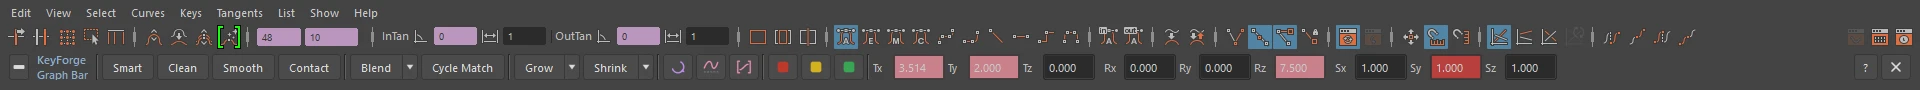
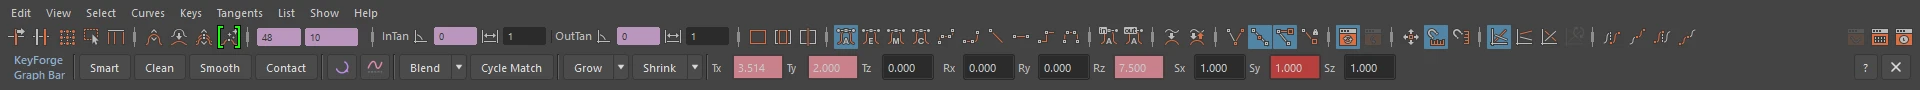
KeyForge 0.8.1: Graph Bar text and images for the automatic one or two row layout

Changed region(s): [[0.0, 0.6, 0.8125, 0.8889]]

diff --git a/_docs/keyforge.md b/_docs/keyforge.md
@@ -61,9 +61,9 @@ Open **KeyForge Tools** (gear menu, or right-click the bar), pick a tool in the 
 
 {% include figure.html slug="keyforge" name="graphbar-1row" alt="The KeyForge Graph Bar in one row inside Maya's Graph Editor, with the channel fields beside the tools" caption="The KeyForge Graph Bar in one row: the tools, then the channel fields, right under the Graph Editor's own buttons." %}
 
-The Graph Bar puts the same tools inside the Graph Editor, so you can use them while you look at curves. It starts in one row, with the tools and the channel fields side by side. The button at the far left switches between one row and two. Click the **?** at the right end for a short guide. What doesn't fit at a narrower width waits in the » menu.
+The Graph Bar puts the same tools inside the Graph Editor, so you can use them while you look at curves. In a wide editor it is one row, with the tools and the channel fields side by side. When the editor is narrower, it switches to two rows by itself, with the channel fields below the tools, so nothing gets hidden. Only a very narrow editor folds the last tools into a » menu. Click the **?** at the right end for a short guide.
 
-{% include figure.html slug="keyforge" name="graphbar-2row" alt="The KeyForge Graph Bar in two rows, with the channel fields on the second row" caption="Two rows: tools above, channels below." %}
+{% include figure.html slug="keyforge" name="graphbar-2row" alt="The KeyForge Graph Bar in two rows, with the channel fields on the second row" caption="In a narrower editor it switches to two rows by itself: tools above, channels below." %}
 
 **Channel fields.** Translate, Rotate and Scale of the object picked in the Graph Editor's list, like the Channel Box:
 
